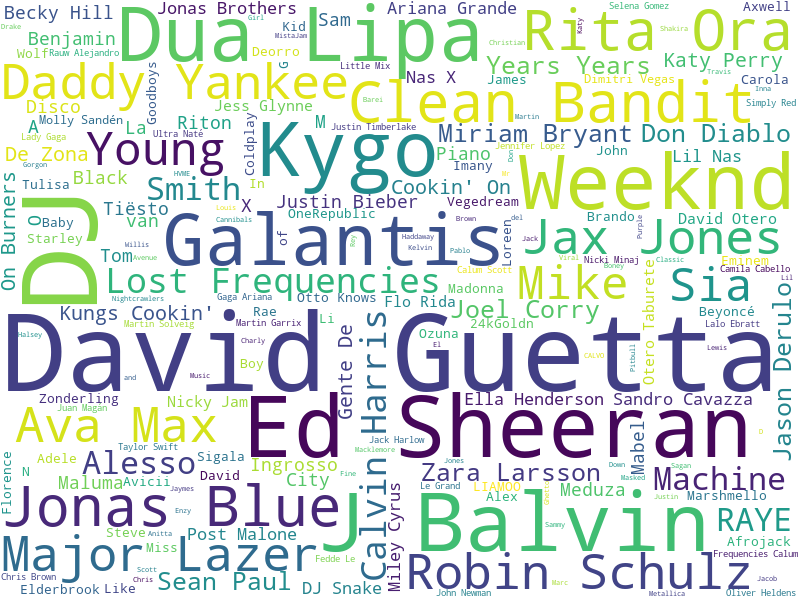
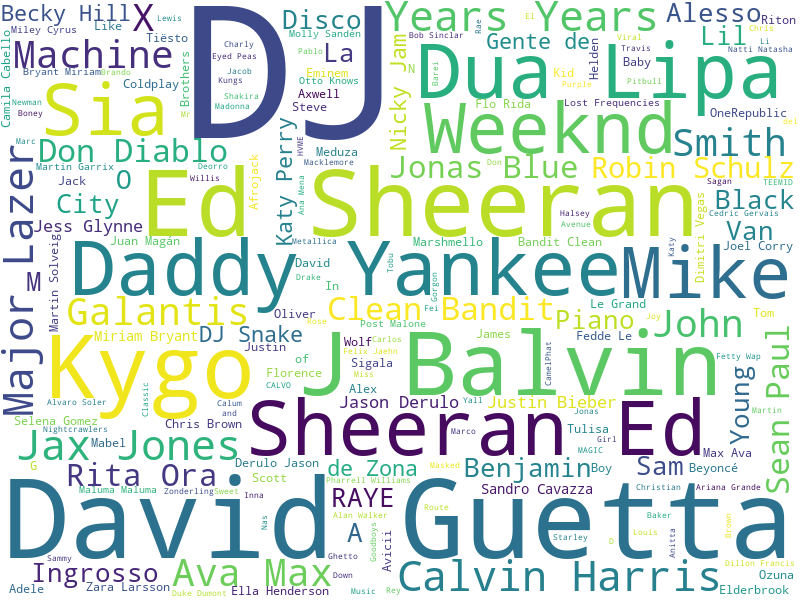
remove duplicates (#5)

diff --git a/functions.py b/functions.py
@@ -1,3 +1,5 @@
+from wordcloud import WordCloud
+
 # This is a function which read the content of a file
 # and transfer it into a list of every line in the file
 def read_file_to_get_raw_lines(filename):
@@ -47,11 +49,23 @@ def get_songs_raw_data(indices, raw_lines):
 # Based on this, we can create a function named get_song_tuple_list to put the index, song title and artist
 # of every song into a tuple and then put all the tuples into a list.
 def get_song_tuple_list(song_raw_list):
-    song_tuple_list = [tuple(song_raw_list[i:i+3]) for i in range(0, len(song_raw_list), 3)]
-    return song_tuple_list
+    return [tuple(song_raw_list[i:i+3]) for i in range(0, len(song_raw_list), 3)]
 
 
-from wordcloud import WordCloud
+# From the function: get_song_tuple_list, we get the list of tuple of song.
+# But it may have duplicates in this list, so we need to remove duplicates.
+# Function: remove_duplicates is the function to get the unique tuple of the song title and artist
+def remove_duplicates(song_tuple_list):
+    return list(set([(index_title_artist[1], index_title_artist[2]) for index_title_artist in song_tuple_list]))
+
+
+# From the function: remove_duplicates, we get the list of unique tuple of the song title and artist
+# Based on this, we create a function named reindex to add the index into every tuple
+# In this function, we also sort the songs by artist name.
+def reindex(unique_songs):
+    sorted_songs = sorted(unique_songs, key=lambda unique_songs:unique_songs[1])
+    return [(index, song[0], song[1]) for index, song in enumerate(sorted_songs, 1)]
+
 
 # This is the function to generate the image of word cloud from the given text
 def get_wordcloud(text):
@@ -65,4 +79,3 @@ def get_wordcloud(text):
     ).generate(text)
 
     return wordcloud
-

diff --git a/main.py b/main.py
@@ -3,6 +3,8 @@ from functions import (
     get_indices,
     get_songs_raw_data,
     get_song_tuple_list,
+    remove_duplicates,
+    reindex,
     get_wordcloud
 )
 from classes import Songs
@@ -16,9 +18,11 @@ raw_lines = read_file_to_get_raw_lines(my_file)
 indices = get_indices(raw_lines)
 song_raw_list = get_songs_raw_data(indices, raw_lines)
 song_tuple_list = get_song_tuple_list(song_raw_list)
+unique_songs = remove_duplicates(song_tuple_list)
+reindexed_songs = reindex(unique_songs)
 
 # songs is the list of tuples of songs from the original file
-songs = Songs(song_data=song_tuple_list)
+songs = Songs(song_data=reindexed_songs)
 # print all the song objects
 for song in songs.song_objects:
     print(song)
